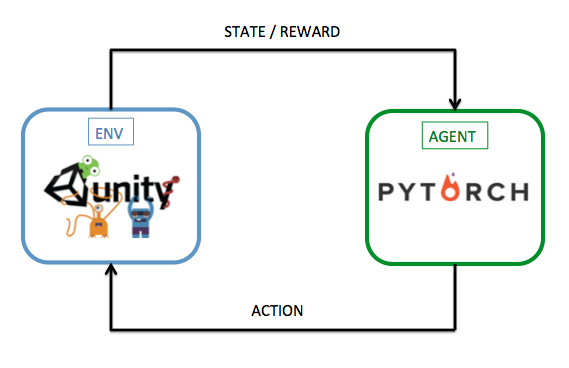
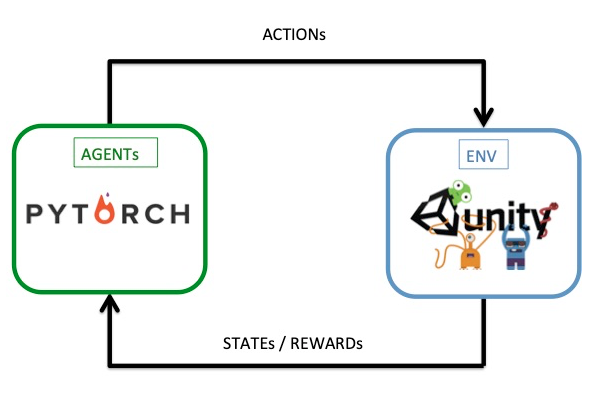
report:arch-rl

Changed region(s): [[0.0, 0.0598, 0.9859, 0.9266]]

diff --git a/Report.md b/Report.md
@@ -9,7 +9,7 @@ We will train a system of DeepRL agents to demonstrate collaboration or cooperat
 
 + This image represents the flow of processes in a reinforcement learning training cycle.
 
-![arch-rl](./img/arch-rl.png "arch-rl")
+![arch-rl](./img/arch-rl-intel.png "arch-rl")
 
 
 + In this project, we use Unity like environment simulator engine and we use the PyTorch framework to build the deep RL agent.
